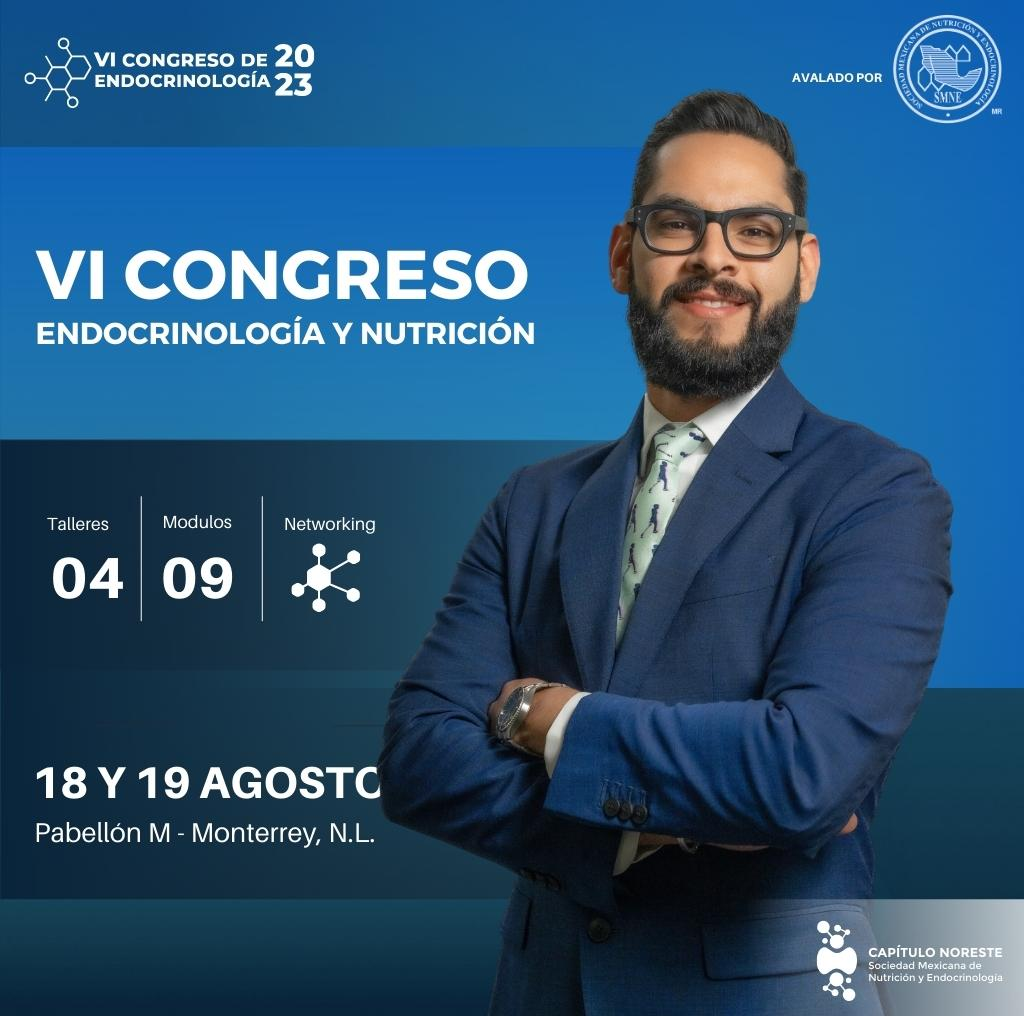
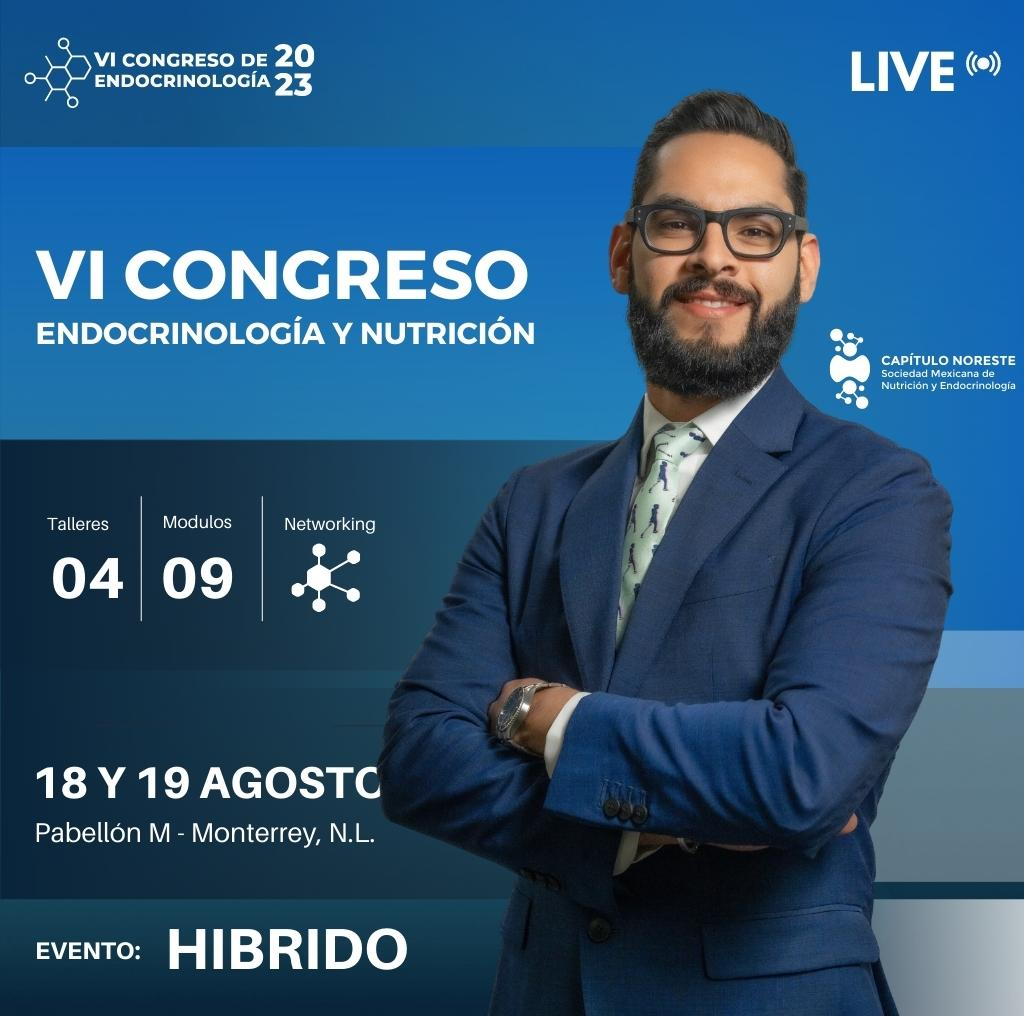
index

diff --git a/congreso2023.html b/congreso2023.html
@@ -150,16 +150,23 @@
               
               </div>
                   <ul style="font-family: 'Raleway'; color: #666; font-size: 15px; font-style: normal;">
-                    <li><strong>Sobre el evento:</strong> El congreso está
+                    <li><strong style="
+                    color: #1c5c93;
+                  ">Sobre el evento:</strong> El congreso está
                       dirigido a médicos de primer contacto de atención, nutriólogos y especialistas, con el objetivo de
                       presentar actualización en temas de interés de las principales enfermedades de sus pacientes.</li>
-                    <li><strong>Lugar</strong>: Piso 5 Norte en Pabellon M. Benito Juarez 1102 - 05, Mty, N.L. </li>
-                    <li><strong>Fecha</strong>: 18 y 19 de agosto de 2023</li>
+                    <li><strong style="
+                    color: #1c5c93;
+                  ">Lugar</strong>: Piso 5 Norte en Pabellon M. Benito Juarez 1102 - 05, Mty, N.L.  - <b style="
+                    color: #1c5c93;
+                  ">Virtual</b> </li>
+                    <li><strong style="
+                    color: #1c5c93;
+                  ">Fecha</strong>: 18 y 19 de agosto de 2023</li>
                   </ul>
                   <div class="card mb-4 rounded-3 shadow-sm">
                     <div class="card-header py-3">
-                      <h4 class="my-0 fw-normal" style="font-size: 15px;">Evento
-                        presencial con conferencias y talleres dirigidos a:</h4>
+                      <h4 class="my-0 fw-normal" style="font-size: 15px;">Evento presencial y virtual con conferencias y talleres dirigidos a:</h4>
                     </div>
                     <div class="card-body">
                       <p style="font-family: 'Raleway'; color: #666; font-size: 15px; font-style: normal;">

diff --git a/index.html b/index.html
@@ -288,7 +288,7 @@
                   <br /><br />En el capitulo noreste, nos corresponde fomentar
                   el desarrollo de la Nutrición y Endocrinología en todos sus
                   aspectos en la región Noreste de México, que corresponde a los
-                  estados de Coahuila, Nuevo León y Tamaulipas <br /><br />
+                  estados de Coahuila, Nuevo León y Tamaulipas. <br /><br />
                   Nuestra Mesa Directiva está compuesta por un grupo de
                   profesionales apasionados por la salud endocrina y
                   nutricional.<br />
